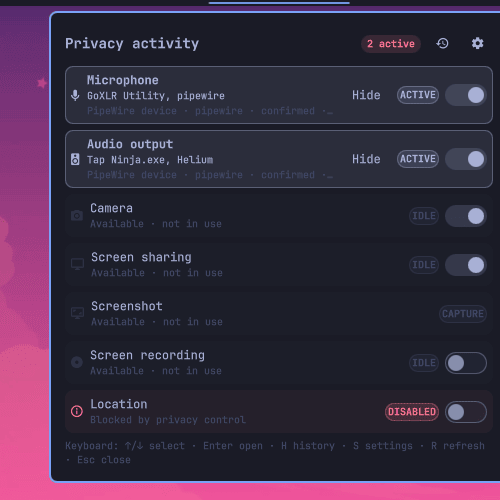
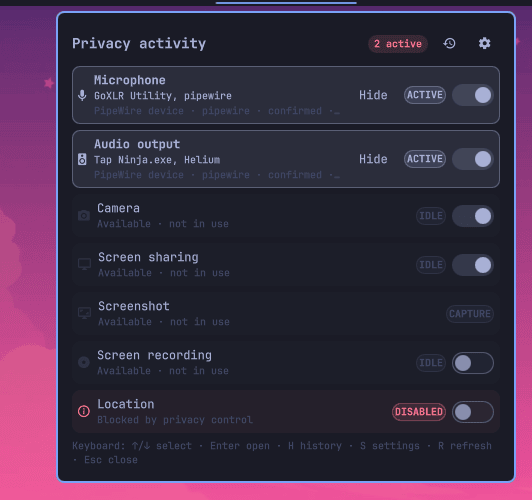
docs(site): refresh padded screenshots

diff --git a/docs/index.html b/docs/index.html
@@ -823,7 +823,7 @@
           </div>
         </div>
         <div class="preview">
-          <img src="preview.png" alt="Privacy Devices activity panel showing live device state and controls" width="500" height="500" decoding="async" fetchpriority="high">
+          <img src="preview.png" alt="Privacy Devices activity panel showing live device state and controls" width="532" height="500" decoding="async" fetchpriority="high">
         </div>
       </div>
 
@@ -857,7 +857,7 @@
           <h2>Clear at a glance.<br>Flexible underneath.</h2>
           <div class="interface-showcase">
             <figure class="screenshot-card">
-              <img src="preview.png" alt="Activity panel with active, idle, capture, and disabled states" width="500" height="500" loading="lazy" decoding="async">
+              <img src="preview.png" alt="Activity panel with active, idle, capture, and disabled states" width="532" height="500" loading="lazy" decoding="async">
               <figcaption>Activity, session context, and controls.</figcaption>
             </figure>
             <div class="interface-supporting">
@@ -874,39 +874,39 @@
           <h3 class="gallery-title">Settings and details</h3>
           <div class="settings-gallery">
             <figure class="screenshot-card">
-              <img src="general.png" alt="General settings page" width="500" height="660" loading="lazy" decoding="async">
+              <img src="general.png" alt="General settings page" width="532" height="660" loading="lazy" decoding="async">
               <figcaption>Monitoring scope and general behavior.</figcaption>
             </figure>
             <figure class="screenshot-card">
-              <img src="appearance.png" alt="Appearance settings page with bar layout and theme controls" width="500" height="660" loading="lazy" decoding="async">
+              <img src="appearance.png" alt="Appearance settings page with bar layout and theme controls" width="532" height="660" loading="lazy" decoding="async">
               <figcaption>Bar layout, colors, and status presentation.</figcaption>
             </figure>
             <figure class="screenshot-card">
-              <img src="alerts.png" alt="Alerts settings page" width="500" height="660" loading="lazy" decoding="async">
+              <img src="alerts.png" alt="Alerts settings page" width="532" height="660" loading="lazy" decoding="async">
               <figcaption>Activity, control, and application alert policy.</figcaption>
             </figure>
             <figure class="screenshot-card">
-              <img src="monitoring.png" alt="Monitoring settings page" width="500" height="660" loading="lazy" decoding="async">
+              <img src="monitoring.png" alt="Monitoring settings page" width="532" height="660" loading="lazy" decoding="async">
               <figcaption>Enhanced coverage and fallback polling.</figcaption>
             </figure>
             <figure class="screenshot-card">
-              <img src="monitoring-private.png" alt="Monitoring settings focused on private history and settings transfer" width="500" height="330" loading="lazy" decoding="async">
+              <img src="monitoring-private.png" alt="Monitoring settings focused on private history and settings transfer" width="532" height="330" loading="lazy" decoding="async">
               <figcaption>Optional local history plus private export, import, reset, and one-step undo.</figcaption>
             </figure>
             <figure class="screenshot-card">
-              <img src="monitoring-health.png" alt="Monitoring settings focused on status guidance and observer health" width="500" height="290" loading="lazy" decoding="async">
+              <img src="monitoring-health.png" alt="Monitoring settings focused on status guidance and observer health" width="532" height="290" loading="lazy" decoding="async">
               <figcaption>Status semantics, live observer health, and redacted diagnostics.</figcaption>
             </figure>
             <figure class="screenshot-card">
-              <img src="device.png" alt="Individual privacy-device settings page" width="500" height="660" loading="lazy" decoding="async">
+              <img src="device.png" alt="Individual privacy-device settings page" width="532" height="660" loading="lazy" decoding="async">
               <figcaption>Per-device appearance, backend, diagnostics, and resets.</figcaption>
             </figure>
             <figure class="screenshot-card">
-              <img src="history.png" alt="Completed privacy activity history view" width="500" height="660" loading="lazy" decoding="async">
+              <img src="history.png" alt="Completed privacy activity history view" width="532" height="660" loading="lazy" decoding="async">
               <figcaption>Searchable completed activity with duration, source, confidence, and application context.</figcaption>
             </figure>
             <figure class="screenshot-card">
-              <img src="history-disabled.png" alt="Activity history disabled state with link to monitoring settings" width="500" height="240" loading="lazy" decoding="async">
+              <img src="history-disabled.png" alt="Activity history disabled state with link to monitoring settings" width="532" height="240" loading="lazy" decoding="async">
               <figcaption>A direct opt-in path when private local history is disabled.</figcaption>
             </figure>
           </div>

diff --git a/tests/site.test.js b/tests/site.test.js
@@ -19,14 +19,15 @@ assert.match(html, /@media \(prefers-reduced-motion: reduce\)/);
 assert.match(html, /property="og:site_name"/);
 assert.match(html, /name="twitter:title"/);
 assert.equal((html.match(/data-copy=/g) || []).length, 4);
-assert.deepEqual(pngDimensions("preview.png"), [500, 500]);
-assert.deepEqual(pngDimensions("docs/preview.png"), [500, 500]);
-assert.deepEqual(pngDimensions("docs/appearance.png"), [500, 660]);
+const panelCaptureWidth = 532;
+assert.deepEqual(pngDimensions("preview.png"), [panelCaptureWidth, 500]);
+assert.deepEqual(pngDimensions("docs/preview.png"), [panelCaptureWidth, 500]);
+assert.deepEqual(pngDimensions("docs/appearance.png"), [panelCaptureWidth, 660]);
 for (const page of ["general", "alerts", "monitoring", "device", "history"])
-  assert.deepEqual(pngDimensions(`docs/${page}.png`), [500, 660]);
-assert.deepEqual(pngDimensions("docs/monitoring-private.png"), [500, 330]);
-assert.deepEqual(pngDimensions("docs/monitoring-health.png"), [500, 290]);
-assert.deepEqual(pngDimensions("docs/history-disabled.png"), [500, 240],
+  assert.deepEqual(pngDimensions(`docs/${page}.png`), [panelCaptureWidth, 660]);
+assert.deepEqual(pngDimensions("docs/monitoring-private.png"), [panelCaptureWidth, 330]);
+assert.deepEqual(pngDimensions("docs/monitoring-health.png"), [panelCaptureWidth, 290]);
+assert.deepEqual(pngDimensions("docs/history-disabled.png"), [panelCaptureWidth, 240],
   "the disabled history state should be cropped to its compact content");
 const notificationDimensions = pngDimensions("docs/notification.png");
 assert.ok(notificationDimensions[0] >= 360 && notificationDimensions[0] <= 600,
@@ -44,7 +45,7 @@ assert.equal(
   Buffer.compare(fs.readFileSync(path.join(root, "preview.png")), fs.readFileSync(path.join(root, "docs/preview.png"))),
   0
 );
-assert.match(html, /src="appearance\.png"[^>]+width="500" height="660"/);
+assert.match(html, /src="appearance\.png"[^>]+width="532" height="660"/);
 for (const image of ["bar", "notification", "general", "appearance", "alerts", "monitoring", "monitoring-private", "monitoring-health", "device", "history", "history-disabled"]) {
   assert.match(html, new RegExp(`src="${image}\\.png"`));
   assert.match(fs.readFileSync(path.join(root, "README.md"), "utf8"), new RegExp(`docs/${image}\\.png`));
